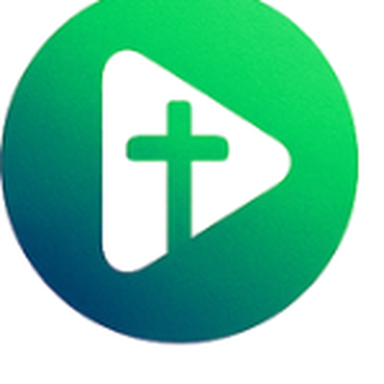
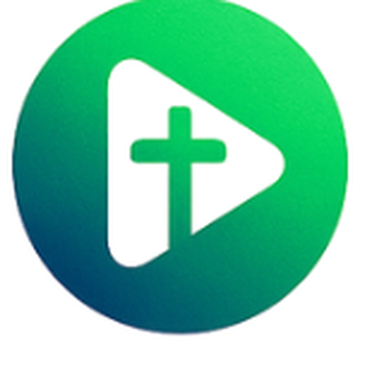
🔧✨ Correções críticas e melhorias de UX
🎯 Ícone PWA Corrigido:
- Extraído ícone completo sem cortes
- Área de extração ajustada (160x160)
- Todos os tamanhos regenerados
- Ícone circular perfeito

🐛 Erro 404 Mobile Corrigido:
- Atualizado vercel.json com rotas corretas
- Adicionado handle filesystem
- Configurado cache otimizado
- Fallback para index.html

📱 Menu Mobile Inteligente:
- Fecha automaticamente ao clicar em qualquer link
- Aplicado em todas as 13 opções do menu
- Melhor experiência de navegação
- Transição suave

🎨 Especialidades Redesenhadas:
- Banner hero com gradiente e imagem oficial
- Grid responsivo (2-3-4-6 colunas)
- Animações de hover incríveis
- Efeito de pulsação nos ícones
- Rotação e escala no hover
- Badges informativos
- 3 imagens oficiais adicionadas

✨ Interatividade Aumentada:
- Efeitos de brilho no hover
- Animações de entrada escalonadas
- Indicador visual de clique
- Transições suaves
- Feedback tátil (whileTap)

📊 Resultado:
- UX profissional e moderna
- Atrai atenção dos desbravadores
- Sem erros 404
- Menu funcional
- Ícone PWA perfeito

diff --git a/src/components/DesbravadoresPage.jsx b/src/components/DesbravadoresPage.jsx
@@ -413,36 +413,102 @@ export function DesbravadoresPage() {
           </TabsContent>
 
           {/* Tab: Especialidades */}
-          <TabsContent value="especialidades" className="space-y-6" ref={especialidadesRef}>
-            <div className="grid grid-cols-1 md:grid-cols-2 lg:grid-cols-4 gap-4">
-              {especialidades.map((esp, index) => {
-                const Icone = esp.icone
-                return (
-                  <motion.div
-                    key={esp.id}
-                    initial={{ opacity: 0, scale: 0.9 }}
-                    animate={{ opacity: 1, scale: 1 }}
-                    transition={{ delay: index * 0.05 }}
-                    whileHover={{ scale: 1.05 }}
-                  >
-                    <Card className="text-center hover:shadow-xl transition-all duration-300 cursor-pointer border-2 hover:border-primary" onClick={() => setEspecialidadeSelecionada(esp)}>
-                      <CardContent className="pt-6 pb-6 space-y-3">
-                        <div className="flex justify-center">
-                          <motion.div 
-                            className={`p-5 ${esp.cor} rounded-full shadow-lg`}
-                            whileHover={{ rotate: 360, scale: 1.1 }}
-                            transition={{ duration: 0.5 }}
+          <TabsContent value="especialidades" className="space-y-8" ref={especialidadesRef}>
+            {/* Banner de Especialidades com Imagem Oficial */}
+            <motion.div
+              initial={{ opacity: 0, y: 20 }}
+              animate={{ opacity: 1, y: 0 }}
+              className="relative overflow-hidden rounded-2xl bg-gradient-to-br from-primary/90 via-primary to-primary/80 text-white p-8 md:p-12 shadow-2xl"
+            >
+              <div className="absolute inset-0 bg-[url('/src/assets/especialidades-oficiais-1.jpg')] bg-cover bg-center opacity-20"></div>
+              <div className="relative z-10">
+                <motion.div
+                  initial={{ scale: 0 }}
+                  animate={{ scale: 1 }}
+                  transition={{ delay: 0.2, type: "spring" }}
+                >
+                  <Trophy className="h-16 w-16 mb-4 text-yellow-300" />
+                </motion.div>
+                <h2 className="text-3xl md:text-4xl font-bold mb-4">Especialidades de Desbravadores</h2>
+                <p className="text-lg md:text-xl mb-6 opacity-90 max-w-2xl">
+                  Desenvolva habilidades incríveis e conquiste especialidades oficiais! Mais de 300 opções em 8 categorias diferentes.
+                </p>
+                <div className="flex flex-wrap gap-3">
+                  <Badge className="bg-white/20 hover:bg-white/30 text-white border-white/30 text-sm py-2 px-4">
+                    <Star className="h-4 w-4 mr-2" />
+                    300+ Especialidades
+                  </Badge>
+                  <Badge className="bg-white/20 hover:bg-white/30 text-white border-white/30 text-sm py-2 px-4">
+                    <Award className="h-4 w-4 mr-2" />
+                    8 Categorias
+                  </Badge>
+                  <Badge className="bg-white/20 hover:bg-white/30 text-white border-white/30 text-sm py-2 px-4">
+                    <Sparkles className="h-4 w-4 mr-2" />
+                    Certificado Oficial
+                  </Badge>
+                </div>
+              </div>
+            </motion.div>
+
+            {/* Grid de Especialidades Populares */}
+            <div>
+              <h3 className="text-2xl font-bold mb-6 flex items-center gap-3">
+                <Sparkles className="h-7 w-7 text-primary" />
+                Especialidades Mais Populares
+              </h3>
+              <div className="grid grid-cols-2 md:grid-cols-3 lg:grid-cols-4 xl:grid-cols-6 gap-4">
+                {especialidades.map((esp, index) => {
+                  const Icone = esp.icone
+                  return (
+                    <motion.div
+                      key={esp.id}
+                      initial={{ opacity: 0, y: 20 }}
+                      animate={{ opacity: 1, y: 0 }}
+                      transition={{ delay: index * 0.05 }}
+                      whileHover={{ y: -8, scale: 1.05 }}
+                      whileTap={{ scale: 0.95 }}
+                    >
+                      <Card 
+                        className="text-center hover:shadow-2xl transition-all duration-300 cursor-pointer border-2 hover:border-primary group overflow-hidden h-full"
+                        onClick={() => setEspecialidadeSelecionada(esp)}
+                      >
+                        <CardContent className="pt-6 pb-4 space-y-3 relative">
+                          {/* Efeito de brilho no hover */}
+                          <div className="absolute inset-0 bg-gradient-to-br from-primary/0 via-primary/5 to-primary/0 opacity-0 group-hover:opacity-100 transition-opacity duration-300"></div>
+                          
+                          <div className="flex justify-center relative">
+                            <motion.div 
+                              className={`p-4 ${esp.cor} rounded-full shadow-lg relative overflow-hidden`}
+                              whileHover={{ rotate: [0, -10, 10, -10, 0], scale: 1.15 }}
+                              transition={{ duration: 0.6 }}
+                            >
+                              {/* Efeito de pulsação */}
+                              <motion.div
+                                className={`absolute inset-0 ${esp.cor} rounded-full`}
+                                animate={{ scale: [1, 1.2, 1], opacity: [0.5, 0, 0.5] }}
+                                transition={{ duration: 2, repeat: Infinity }}
+                              />
+                              <Icone className="h-8 w-8 text-white relative z-10" />
+                            </motion.div>
+                          </div>
+                          
+                          <h3 className="font-bold text-sm md:text-base group-hover:text-primary transition-colors">{esp.nome}</h3>
+                          <Badge variant="secondary" className="text-xs">{esp.categoria}</Badge>
+                          
+                          {/* Indicador de clique */}
+                          <motion.div
+                            className="text-xs text-muted-foreground opacity-0 group-hover:opacity-100 transition-opacity"
+                            initial={{ opacity: 0 }}
+                            whileHover={{ opacity: 1 }}
                           >
-                            <Icone className="h-10 w-10 text-white" />
+                            <ChevronRight className="h-4 w-4 mx-auto" />
                           </motion.div>
-                        </div>
-                        <h3 className="font-bold text-lg">{esp.nome}</h3>
-                        <Badge variant="secondary" className="text-xs">{esp.categoria}</Badge>
-                      </CardContent>
-                    </Card>
-                  </motion.div>
-                )
-              })}
+                        </CardContent>
+                      </Card>
+                    </motion.div>
+                  )
+                })}
+              </div>
             </div>
 
             {/* Card Especial: Nós e Amarras */}

diff --git a/src/App.jsx b/src/App.jsx
@@ -206,26 +206,26 @@ function Navigation({ user, onLogout }) {
               exit={{ height: 0, opacity: 0 }}
               className="md:hidden pb-4 space-y-2 overflow-hidden"
             >
-              <Link to="/" className="block py-2 text-gray-700 hover:text-primary transition-colors font-medium">Início</Link>
-              <Link to="/devocional" className="block py-2 text-gray-700 hover:text-primary transition-colors font-medium">Devocional</Link>
-              <Link to="/hinario" className="block py-2 text-gray-700 hover:text-primary transition-colors font-medium">Hinário</Link>
-              <Link to="/biblia" className="block py-2 text-gray-700 hover:text-primary transition-colors font-medium">Bíblia</Link>
-              <Link to="/estudos" className="block py-2 text-gray-700 hover:text-primary transition-colors font-medium">Estudos</Link>
-              <Link to="/ellen-white" className="block py-2 text-gray-700 hover:text-primary transition-colors font-medium">Ellen White</Link>
-              <Link to="/planos" className="block py-2 text-gray-700 hover:text-primary transition-colors font-medium">Planos de Leitura</Link>
-              <Link to="/quiz" className="block py-2 text-gray-700 hover:text-primary transition-colors font-medium">Quiz Bíblico</Link>
-              <Link to="/projetos" className="block py-2 text-gray-700 hover:text-primary transition-colors font-medium">Projetos</Link>
-              <Link to="/cursos" className="block py-2 text-gray-700 hover:text-primary transition-colors font-medium">Cursos</Link>
-              <Link to="/desbravadores" className="block py-2 text-gray-700 hover:text-primary transition-colors font-medium">Desbravadores</Link>
-              <Link to="/oracao" className="block py-2 text-gray-700 hover:text-primary transition-colors font-medium">Oração</Link>
-              <Link to="/contato" className="block py-2 text-gray-700 hover:text-primary transition-colors font-medium">Contato</Link>
+              <Link to="/" onClick={() => setMobileMenuOpen(false)} className="block py-2 text-gray-700 hover:text-primary transition-colors font-medium">Início</Link>
+              <Link to="/devocional" onClick={() => setMobileMenuOpen(false)} className="block py-2 text-gray-700 hover:text-primary transition-colors font-medium">Devocional</Link>
+              <Link to="/hinario" onClick={() => setMobileMenuOpen(false)} className="block py-2 text-gray-700 hover:text-primary transition-colors font-medium">Hinário</Link>
+              <Link to="/biblia" onClick={() => setMobileMenuOpen(false)} className="block py-2 text-gray-700 hover:text-primary transition-colors font-medium">Bíblia</Link>
+              <Link to="/estudos" onClick={() => setMobileMenuOpen(false)} className="block py-2 text-gray-700 hover:text-primary transition-colors font-medium">Estudos</Link>
+              <Link to="/ellen-white" onClick={() => setMobileMenuOpen(false)} className="block py-2 text-gray-700 hover:text-primary transition-colors font-medium">Ellen White</Link>
+              <Link to="/planos" onClick={() => setMobileMenuOpen(false)} className="block py-2 text-gray-700 hover:text-primary transition-colors font-medium">Planos de Leitura</Link>
+              <Link to="/quiz" onClick={() => setMobileMenuOpen(false)} className="block py-2 text-gray-700 hover:text-primary transition-colors font-medium">Quiz Bíblico</Link>
+              <Link to="/projetos" onClick={() => setMobileMenuOpen(false)} className="block py-2 text-gray-700 hover:text-primary transition-colors font-medium">Projetos</Link>
+              <Link to="/cursos" onClick={() => setMobileMenuOpen(false)} className="block py-2 text-gray-700 hover:text-primary transition-colors font-medium">Cursos</Link>
+              <Link to="/desbravadores" onClick={() => setMobileMenuOpen(false)} className="block py-2 text-gray-700 hover:text-primary transition-colors font-medium">Desbravadores</Link>
+              <Link to="/oracao" onClick={() => setMobileMenuOpen(false)} className="block py-2 text-gray-700 hover:text-primary transition-colors font-medium">Oração</Link>
+              <Link to="/contato" onClick={() => setMobileMenuOpen(false)} className="block py-2 text-gray-700 hover:text-primary transition-colors font-medium">Contato</Link>
               {user ? (
                 <>
                   <div className="py-2 text-primary font-semibold">{user.nome}</div>
                   <Button variant="outline" size="sm" onClick={onLogout} className="w-full">Sair</Button>
                 </>
               ) : (
-                <Link to="/login" className="block">
+                <Link to="/login" onClick={() => setMobileMenuOpen(false)} className="block">
                   <Button variant="outline" size="sm" className="w-full">Entrar</Button>
                 </Link>
               )}
